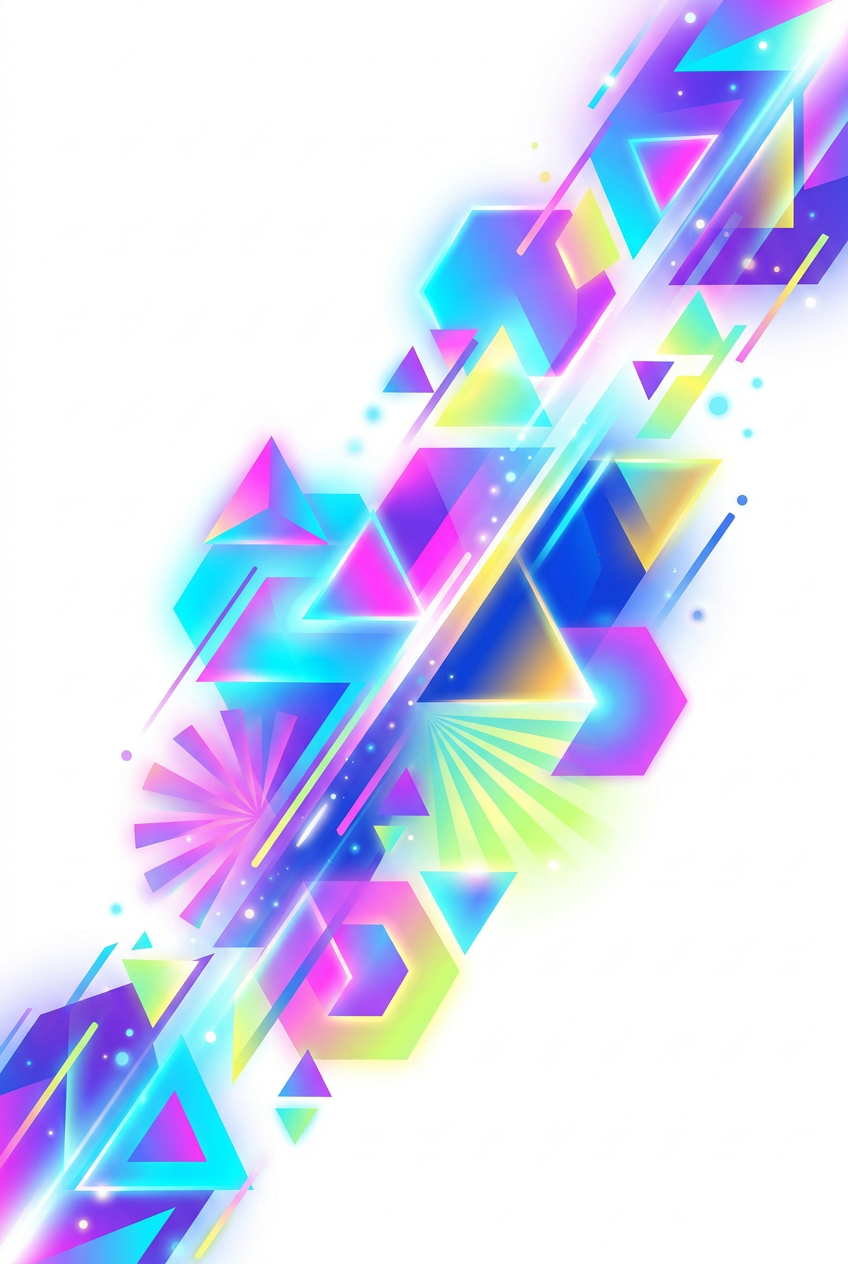
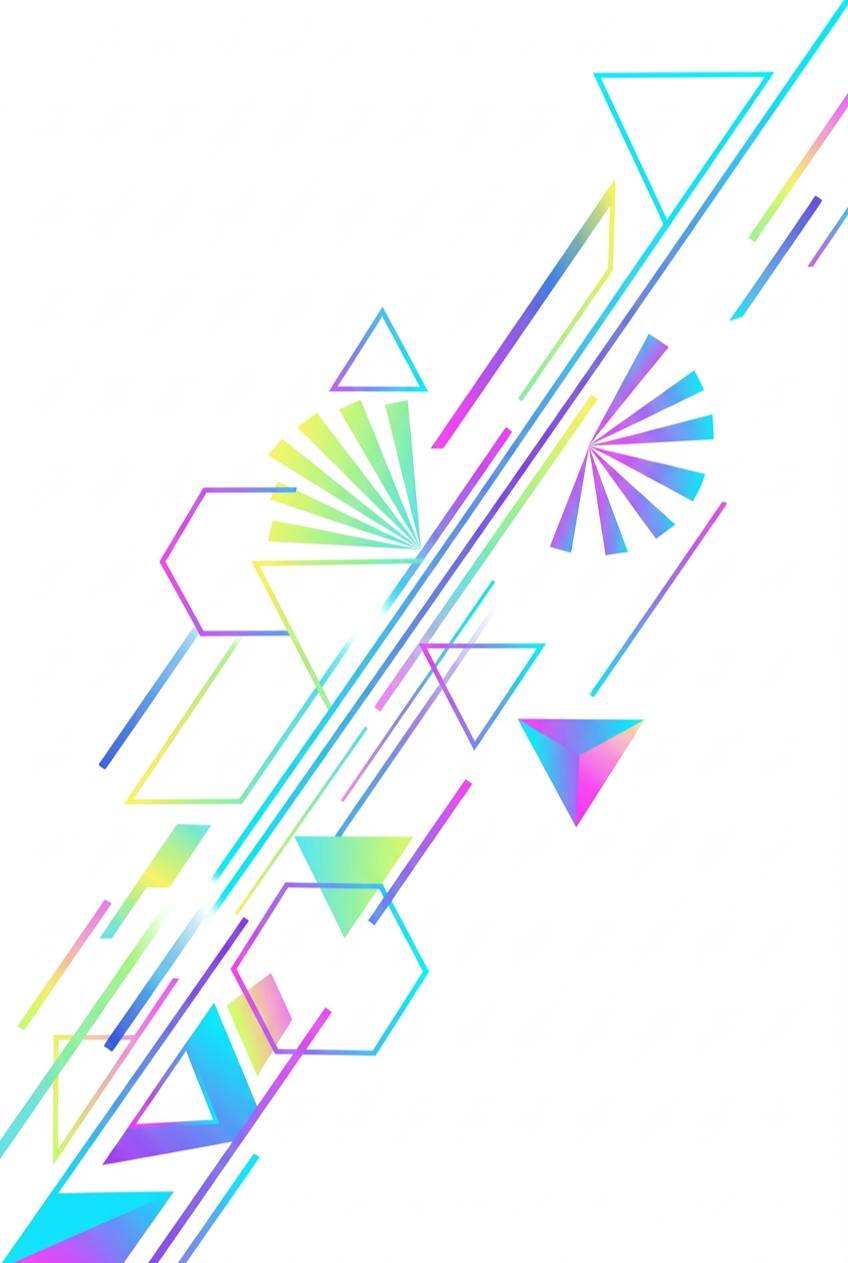
トップ結構満足いった

diff --git a/app/page.tsx b/app/page.tsx
@@ -28,35 +28,35 @@ export default function Home() {
                   media="(min-width:1024px)"
                   srcSet="/welcome/top_pc.png"
                 />
-              <Image
-                src="/welcome/top_sp.png"
-                alt=""
-                width={3000}
-                height={2000}
-                priority
-              />
-            </picture>
-          </div>
+                <Image
+                  src="/welcome/top_sp.png"
+                  alt=""
+                  width={3000}
+                  height={2000}
+                  priority
+                />
+              </picture>
+            </div>
 
-          <div className="headtop-leftarea">
+            <div className="headtop-leftarea">
+              <div className="headtop-themelogo">
+                <Image
+                  src="/welcome/logo.png"
+                  alt=""
+                  width={900}
+                  height={850}
+                 priority
+               />
+              </div>
+            </div>
 
-          <div className="headtop-themelogo">
-            <Image
-              src="/welcome/logo.png"
-              alt=""
-              width={900}
-              height={850}
-             priority
-           />
-         </div>
-
-        </div>
-
-      </section>
+            <div className="left_date">
+              <Countdown targetDate="2026-06-25T23:59:59+09:00" /> {/*←翠翔祭の日程を入れる。数字は2桁*/}
+              {/*<Finish />*/}
+            </div>
+          </section>
 
           <div className="mid_header">
-            <Countdown targetDate="2026-06-25T23:59:59+09:00" /> {/*←翠翔祭の日程を入れる。数字は2桁*/}
-            {/*<Finish />*/}
             <div className="headerbox_top">
               <div className="headerbox_left"></div>
               <div className="headerbox_right"></div>

diff --git a/app/homepage.css b/app/homepage.css
@@ -68,21 +68,28 @@
   max-width: 550px;
 }
 
+.left_date{
+    position: absolute;
+    bottom: 0;
+    z-index: 7000;
+    align-items: center;
+    right: 0;
+}
+
+@media (max-width:600px){
+    .left_date{
+      width: 100%;
+      align-items: center;
+      text-align: center;
+    }
+}
+
 /* ------------------ */
 /* 下の白コンテンツ */
 /* ------------------ */
-
 .mid_header {
-  position: relative;
-  margin-top: -80px;   /* ←重なる量 */
-  padding-top: 40px;
-
   width: 100%;
   background: white;
-
-  border-top-left-radius: 40px;
-  border-top-right-radius: 40px;
-
   display: flex;
   flex-direction: column;
   align-items: center;
@@ -178,7 +185,7 @@
     bottom: 0;
     width: 70%;
     height: 90%;
-    background: linear-gradient(to bottom left, #01b0d3, #14fc0a);
+    background: linear-gradient(to bottom left, #00c4eb, #14fc0a);
     border-radius: 20px;
     left: 50%;
     transform: translateX(-50%);

diff --git a/components/countdown/Countdown.module.css b/components/countdown/Countdown.module.css
@@ -1,9 +1,11 @@
 .container {
   width: 100%;
-  padding: 80px 20px;
+  padding: 10px;
   display: flex;
   justify-content: center;
   align-items: center;
+  flex-direction: column;
+  min-width: 300px;
 }
 
 .countdown {
@@ -13,13 +15,13 @@
 .title {
   font-size: 48px;
   font-weight: bold;
-  margin-bottom: 40px;
+  margin-bottom: 12px;
 }
 
 .timeContainer {
   display: flex;
   justify-content: center;
-  gap: 40px;
+  gap: 16px;
 }
 
 .time {
@@ -36,4 +38,20 @@
 .finished {
   font-size: 40px;
   font-weight: bold;
+}
+
+@media (max-width:600px){
+  .title{
+    font-size: 40px;
+  }
+
+  .timeNum{
+    font-size: 50px;
+  }
+
+  .container{
+    background: rgba(255, 255, 255, 0.3);
+    padding: 12px 20px;
+    border-radius: 12px;
+  }
 }

diff --git a/components/HamburgerMenu/HamburgerMenu.module.css b/components/HamburgerMenu/HamburgerMenu.module.css
@@ -7,7 +7,7 @@
   right: 0;
   width: 80px;
   height: 80px;
-  background-color: #01b0d3;
+  background-color: #00c4eb;
   border-bottom-left-radius: 20px;
   cursor: pointer;
   z-index: 9998;
@@ -157,7 +157,7 @@
 .menuBackdrop {
   position: fixed;
   inset: 0;
-  background: linear-gradient(to bottom left, #01b0d3, #ff42df); /* 緑 → 水色 */
+  background: linear-gradient(to bottom left, #00c4eb, #ff42df); /* 緑 → 水色 */
   opacity: 0;
   pointer-events: none;
   transition: opacity 0.45s ease;

diff --git a/components/countdown/Countdown.tsx b/components/countdown/Countdown.tsx
@@ -79,7 +79,7 @@ export default function Countdown({ targetDate }: Props) {
         </div>
       ) : (
         <div className={styles.finished}>
-          🎉 翠翔祭開催中！ 🎉
+           翠翔祭開催中！
         </div>
       )}
     </div>

diff --git a/components/announce/announce.css b/components/announce/announce.css
@@ -7,6 +7,7 @@
   padding-right: 0.5rem; /* スクロールバーの余白 */
   width: 70vw;
   border: 2px solid #00000000;
+  align-items: center;
 }
 
 .announce-item {
